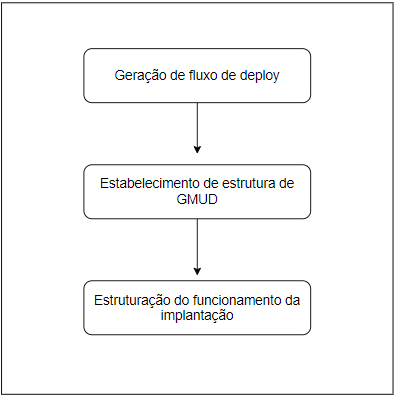
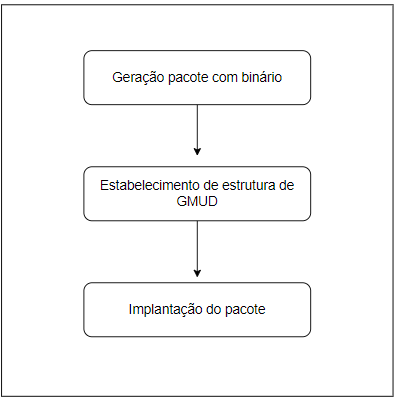
Adding software system products

diff --git a/docs/areas/solution/alphas/requirements/products/system-document/system-document.md b/docs/areas/solution/alphas/requirements/products/system-document/system-document.md
@@ -8,3 +8,30 @@ sidebar_label: Documento do sistema
 - [Atividades relacionadas](#atividades-relacionadas)
 
 ![Workflow](/img/solution/products/system-document/system-document-workflow.png)
+
+## Visão geral
+
+- [Estabelecimento da arquitetura](#estabelecimento-da-arquitetura)
+- [Separação dos componentes](#separação-dos-componentes)
+- [Estruturar integração dos componentes](#estruturar-integração-dos-componentes)
+
+### Estabelecimento da arquitetura
+
+- [ ] Discutir requisitos do sistema
+- [ ] Estabelecer arquitetura para o sistema
+
+### Separação dos componentes
+
+- [ ] Separar sistema em componentes
+
+### Estruturar integração dos componentes
+
+- [ ] Analisar requisitos
+- [ ] Definir papel dos componentes no sistema
+- [ ] Modelar diagrama de sequencia
+
+## Atividades relacionadas
+
+- ### [Definir e desenhar arquitetura](/docs/areas/solution/alphas/requirements/activities/requirement-activities#definir-e-desenhar-a-arquitetura)
+- ### [Diagrama de componentes](/docs/areas/solution/alphas/requirements/activities/requirement-activities#diagrama-de-componentes)
+- ### [Diagrama de sequencia](/docs/areas/solution/alphas/requirements/activities/requirement-activities#diagrama-de-sequencia)

diff --git a/docs/areas/solution/alphas/software-system/products/front-end/front-end.md b/docs/areas/solution/alphas/software-system/products/front-end/front-end.md
@@ -8,3 +8,29 @@ sidebar_label: Front-end
 - [Atividades relacionadas](#atividades-relacionadas)
 
 ![Workflow](/img/solution/products/front-end/front-end-workflow.png)
+
+## Visão geral
+
+- [Análise do requisito a nível de implementação](#definição-de-experiência-de-usuário)
+- [Implementação das funcionalidades](#definição-de-interface)
+- [Desenvolvimento de testes unitários](#validação-de-interface)
+
+### Análise do requisito a nível de implementação
+
+- [ ] Análise do requisito funcional
+- [ ] Análise do requisito não funcional
+
+### Implementação das funcionalidades
+
+- [ ] Desenvolver funcionalidade com base no requisito
+
+### Desenvolvimento de testes unitários
+
+- [ ] Mockar dependências
+- [ ] Desenvolver teste unitário do componente desenvolvido
+
+## Atividades relacionadas
+
+- ### [Layout](/docs/areas/solution/alphas/software-system/activities/software-system-activities#layout)
+- ### [Implementar funcionalidades](/docs/areas/solution/alphas/software-system/activities/software-system-activities#implementar-funcionalidades)
+- ### [Teste unitário](/docs/areas/solution/alphas/software-system/activities/software-system-activities#teste-unitário)

diff --git a/docs/areas/solution/alphas/requirements/products/user-stories/user-stories.md b/docs/areas/solution/alphas/requirements/products/user-stories/user-stories.md
@@ -8,3 +8,27 @@ sidebar_label: Estórias de usuário
 - [Atividades relacionadas](#atividades-relacionadas)
 
 ![Workflow](/img/solution/products/user-stories/user-stories-workflow.png)
+
+## Visão geral
+
+- [Escrita das estória com base nos requisitos](#escrita-das-estória-com-base-nos-requisitos)
+- [Refinamento das estórias escritas](#refinamento-das-estórias-escritas)
+- [Priorização das estórias](#priorização-das-estórias)
+
+### Escrita das estória com base nos requisitos
+
+- [ ] Discutir requisitos do sistema
+- [ ] Escrever estórias
+
+### Refinamento das estórias escritas
+
+- [ ] Analisar possíveis dependências de desenvolvimento
+- [ ] Refinar estórias escritas
+
+### Priorização das estórias
+
+- [ ] Priorizar estórias escritas por ordem de importancia de negócio
+
+## Atividades relacionadas
+
+- ### [Levantamento e análise de requisitos](/docs/areas/solution/alphas/requirements/activities/requirement-activities#levantamento-e-análise-de-requisitos)

diff --git a/docs/areas/solution/alphas/software-system/products/prototype/prototype.md b/docs/areas/solution/alphas/software-system/products/prototype/prototype.md
@@ -8,3 +8,32 @@ sidebar_label: Protótipo
 - [Atividades relacionadas](#atividades-relacionadas)
 
 ![Workflow](/img/solution/products/prototype/prototype-workflow.png)
+
+
+## Visão geral
+
+- [Definição de experiência de usuário](#definição-de-experiência-de-usuário)
+- [Definição de interface](#definição-de-interface)
+- [Validação de interface](#validação-de-interface)
+- [Finalização do layout](#finalização-do-layout)
+
+### Definição de experiência de usuário
+
+- [ ] Realizar pesquisa de benchmark
+- [ ] Definir experiência de usuário
+
+### Definição de interface
+
+- [ ] Definir interface gráfica
+
+### Validação de interface
+
+- [ ] Pedir feedback da interface para os stakeholders
+
+### Finalização do layout
+
+- [ ] Aplicar correções caso solicitado pelos stakeholders
+
+## Atividades relacionadas
+
+- ### [Layout](/docs/areas/solution/alphas/software-system/activities/software-system-activities#layout)

diff --git a/docs/areas/solution/alphas/requirements/products/definition-of-done/definition-of-done.md b/docs/areas/solution/alphas/requirements/products/definition-of-done/definition-of-done.md
@@ -8,3 +8,22 @@ sidebar_label: Definição de pronto
 - [Atividades relacionadas](#atividades-relacionadas)
 
 ![Workflow](/img/solution/products/definition-of-done/definition-of-done-workflow.png)
+
+
+## Visão geral
+
+- [Discussão com o time sobre workflow das atividades](#discussão-com-o-time-sobre-workflow-das-atividades)
+- [Estabelecimento da definição de pronto](#estabelecimento-da-definição-de-pronto)
+
+### Discussão com o time sobre workflow das atividades
+
+- [ ] Discutir melhor workflow que garanta qualidade
+- [ ] Definir steps do workflow
+
+### Estabelecimento da definição de pronto
+
+- [ ] Estabelecer pré requisitos para que uma tarefa seja considerada pronta
+
+## Atividades relacionadas
+
+- ### [Estabelecer definição de pronto](/docs/areas/solution/alphas/requirements/activities/requirement-activities#estabelecer-definição-de-pronto)

diff --git a/docs/areas/solution/alphas/software-system/products/deploy/deploy.md b/docs/areas/solution/alphas/software-system/products/deploy/deploy.md
@@ -8,3 +8,25 @@ sidebar_label: Deploy
 - [Atividades relacionadas](#atividades-relacionadas)
 
 ![Workflow](/img/solution/products/deploy/deploy-workflow.png)
+
+## Visão geral
+
+- [Geração pacote com binário](#definição-de-experiência-de-usuário)
+- [Estabelecimento de estrutura de GMUD](#definição-de-interface)
+- [Implantação do pacote](#validação-de-interface)
+
+### Geração pacote com binário
+
+- [ ] Gerar binário com base no código fonte
+
+### Estabelecimento de estrutura de GMUD
+
+- [ ] Criar documento detalhando mudança a ser implantada no sistema
+
+### Implantação do pacote
+
+- [ ] Implantar pacote com mudanças em ambiente produtivo
+
+## Atividades relacionadas
+
+- ### [Gerar APK](/docs/areas/solution/alphas/software-system/activities/software-system-activities#gerar-apk)

diff --git a/docs/areas/solution/alphas/software-system/activities/software-system-activities.md b/docs/areas/solution/alphas/software-system/activities/software-system-activities.md
@@ -17,10 +17,10 @@ sidebar_label: Atividades
 
 ### Implementar funcionalidades
 
-- Recuperar requisitos e diagrams feitos anteriormente
+- Recuperar requisitos e diagramas feitos anteriormente
 - Implementar sistema com base nos diagramas e manter padronização mantendo boas práticas de programação
 
-#### Competência => [Designer](/docs/competences/developer)
+#### Competência => [Developer](/docs/competences/developer)
 
 ## Espaço de atividade - Testar o sistema
 ### Teste unitário
